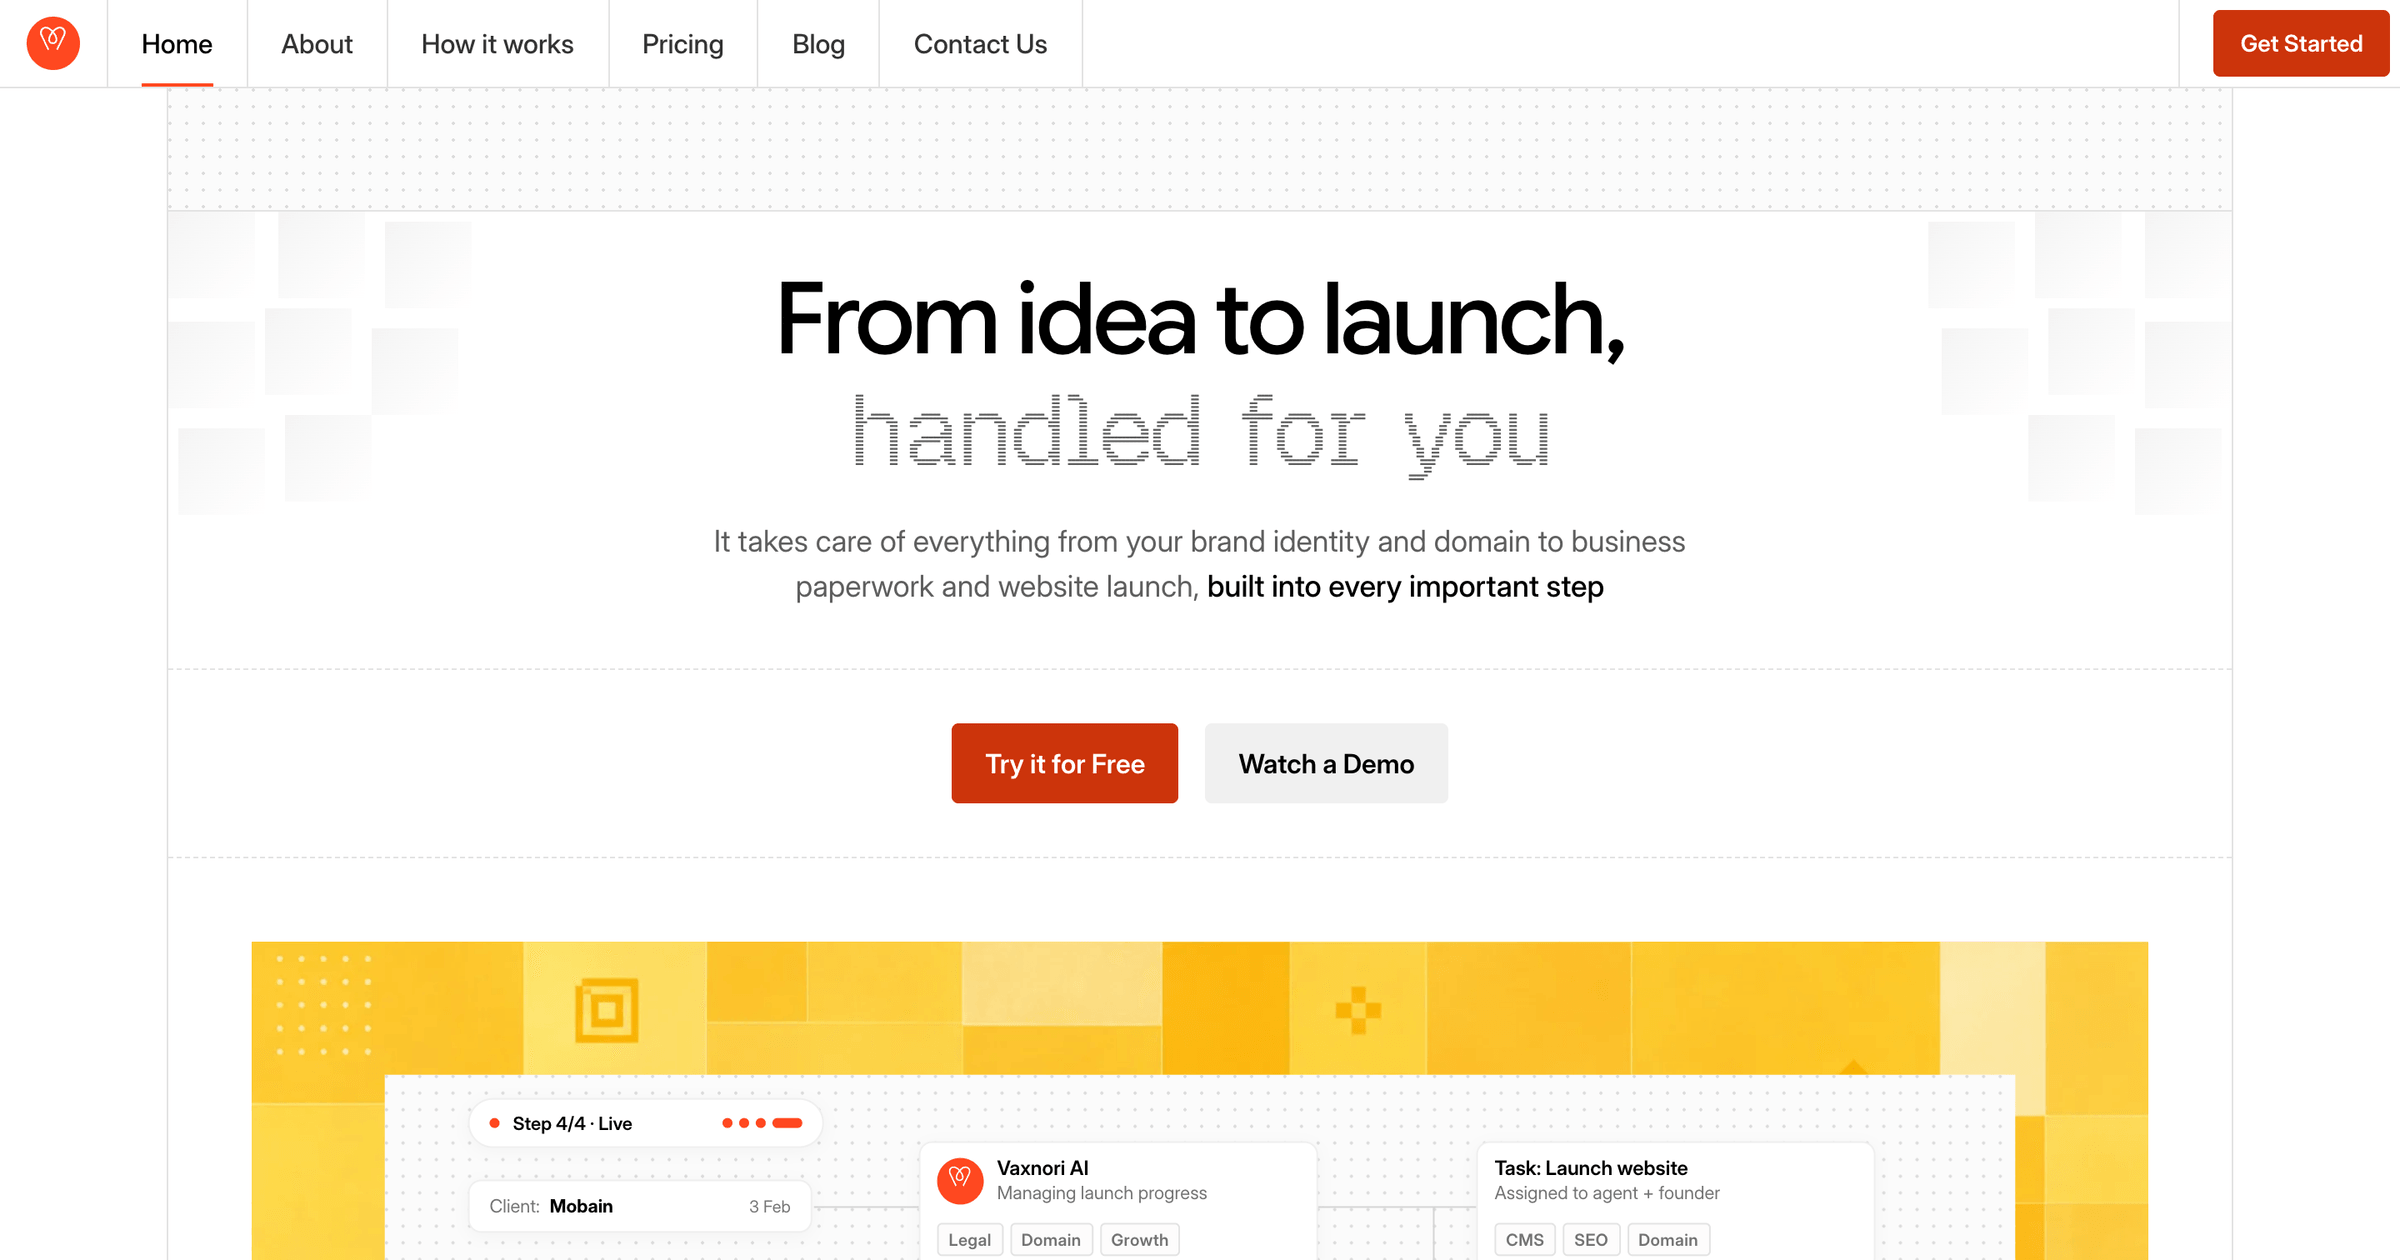
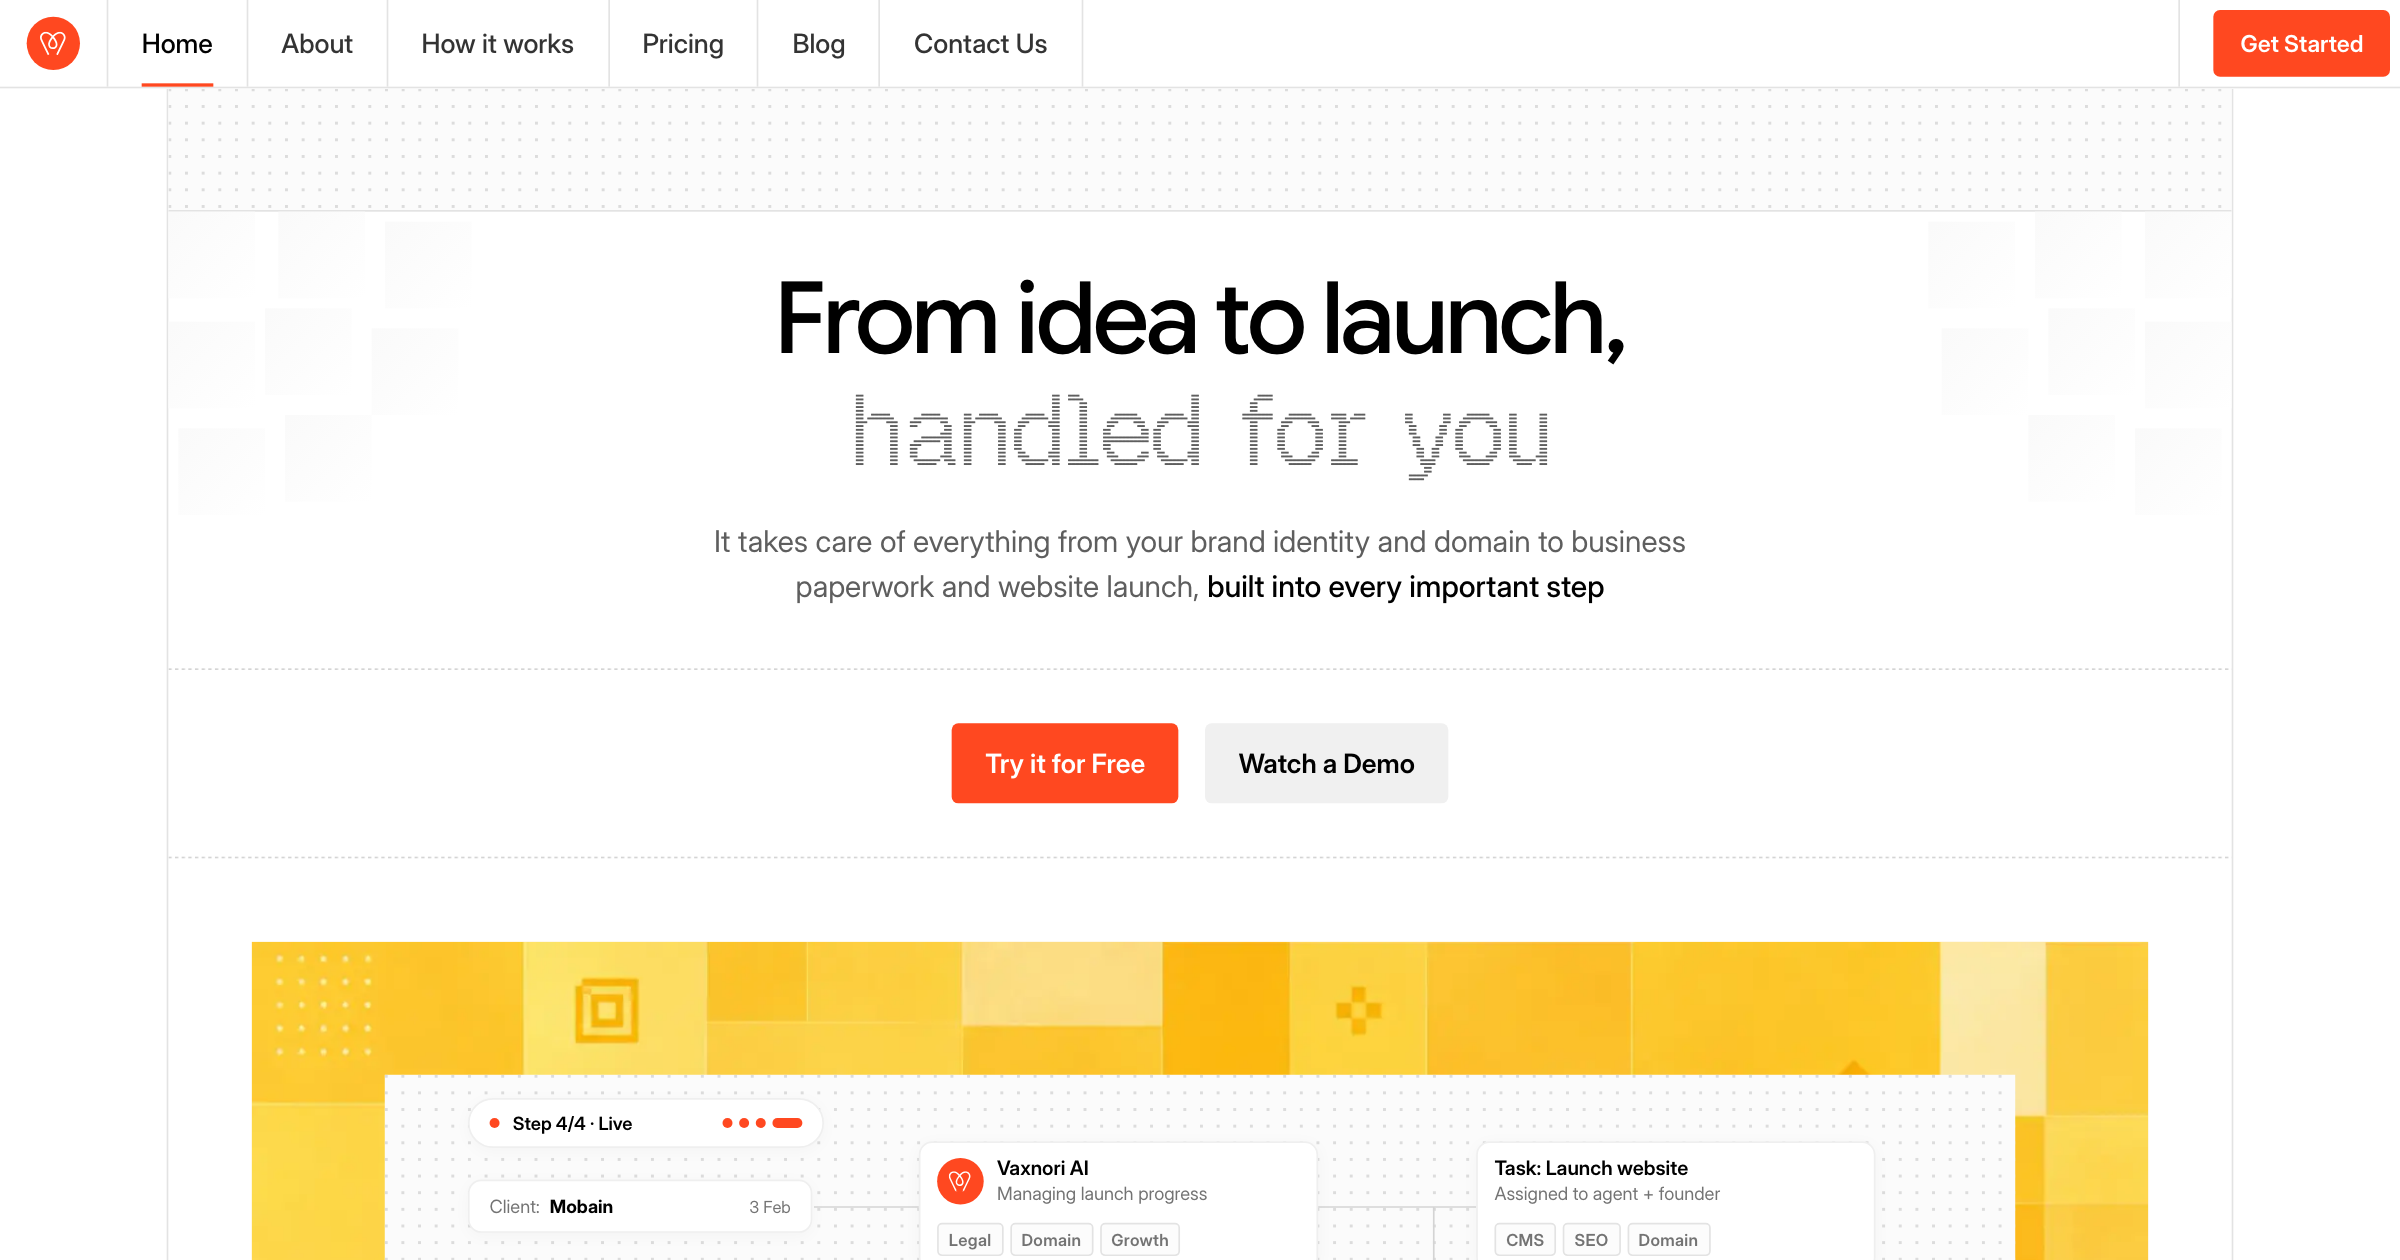
README: official Vercel deploy link and updated preview image

diff --git a/README.md b/README.md
@@ -4,7 +4,7 @@ A free, open-source Next.js (App Router) template for AI and SaaS products: 13 p
 
 ![Vaxnori AI template preview](public/readme/preview.png)
 
-[![Deploy with Vercel](https://vercel.com/button)](https://vercel.com/new/clone?repository-url=https%3A%2F%2Fgithub.com%2FWavespaceAgency%2Fvaxnori-nextjs-template&project-name=vaxnori-nextjs-template&repository-name=vaxnori-nextjs-template)
+[![Deploy with Vercel](https://vercel.com/button)](https://vercel.com/new/clone?repository-url=https%3A%2F%2Fgithub.com%2FWavespaceAgency%2Fvaxnori-nextjs-template&project-name=vaxnori-ai-saas-landing-page&repository-name=vaxnori-ai-saas-landing-page&demo-title=Vaxnori+AI+%E2%80%93+SaaS+Landing+Page&demo-description=Free+AI+and+SaaS+website%3A+animated+landing+page%2C+pricing%2C+MDX+blog+and+careers.&demo-url=https%3A%2F%2Fvaxnori-ai.vercel.app&demo-image=https%3A%2F%2Fraw.githubusercontent.com%2FWavespaceAgency%2Fvaxnori-nextjs-template%2Fmain%2Fpublic%2Freadme%2Fpreview.png&build-command=npm+run+build&install-command=npm+install)
 
 **Live demo:** https://vaxnori-ai.vercel.app
 
